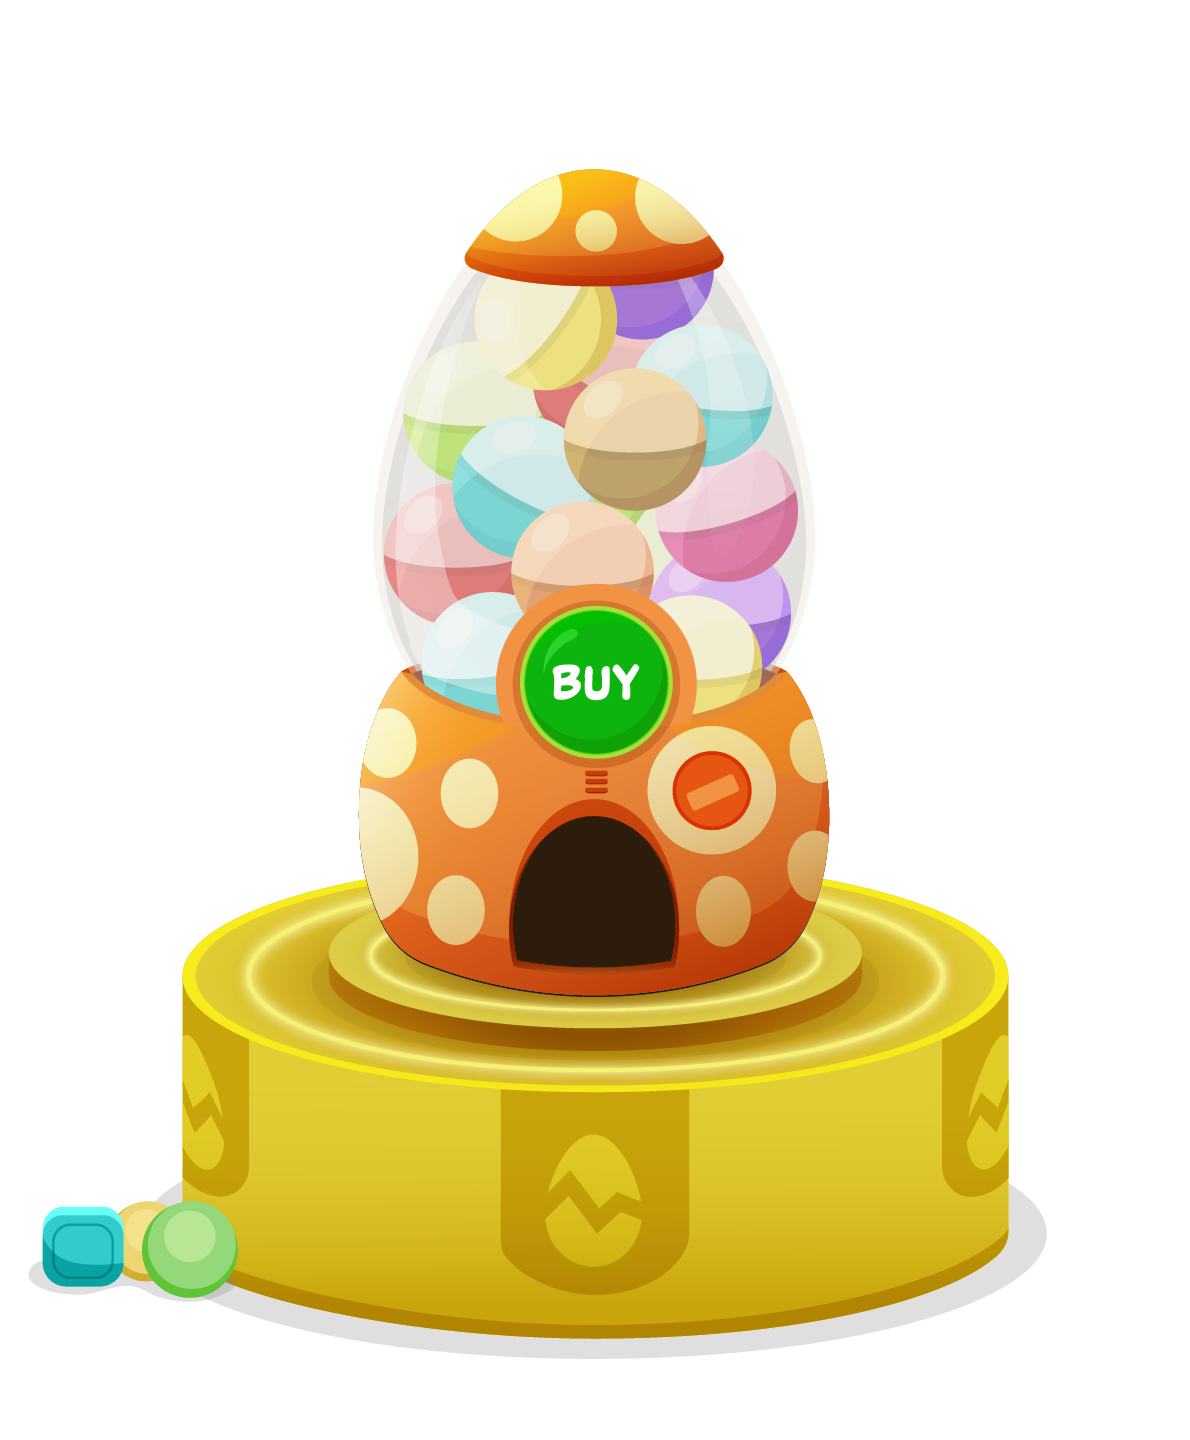
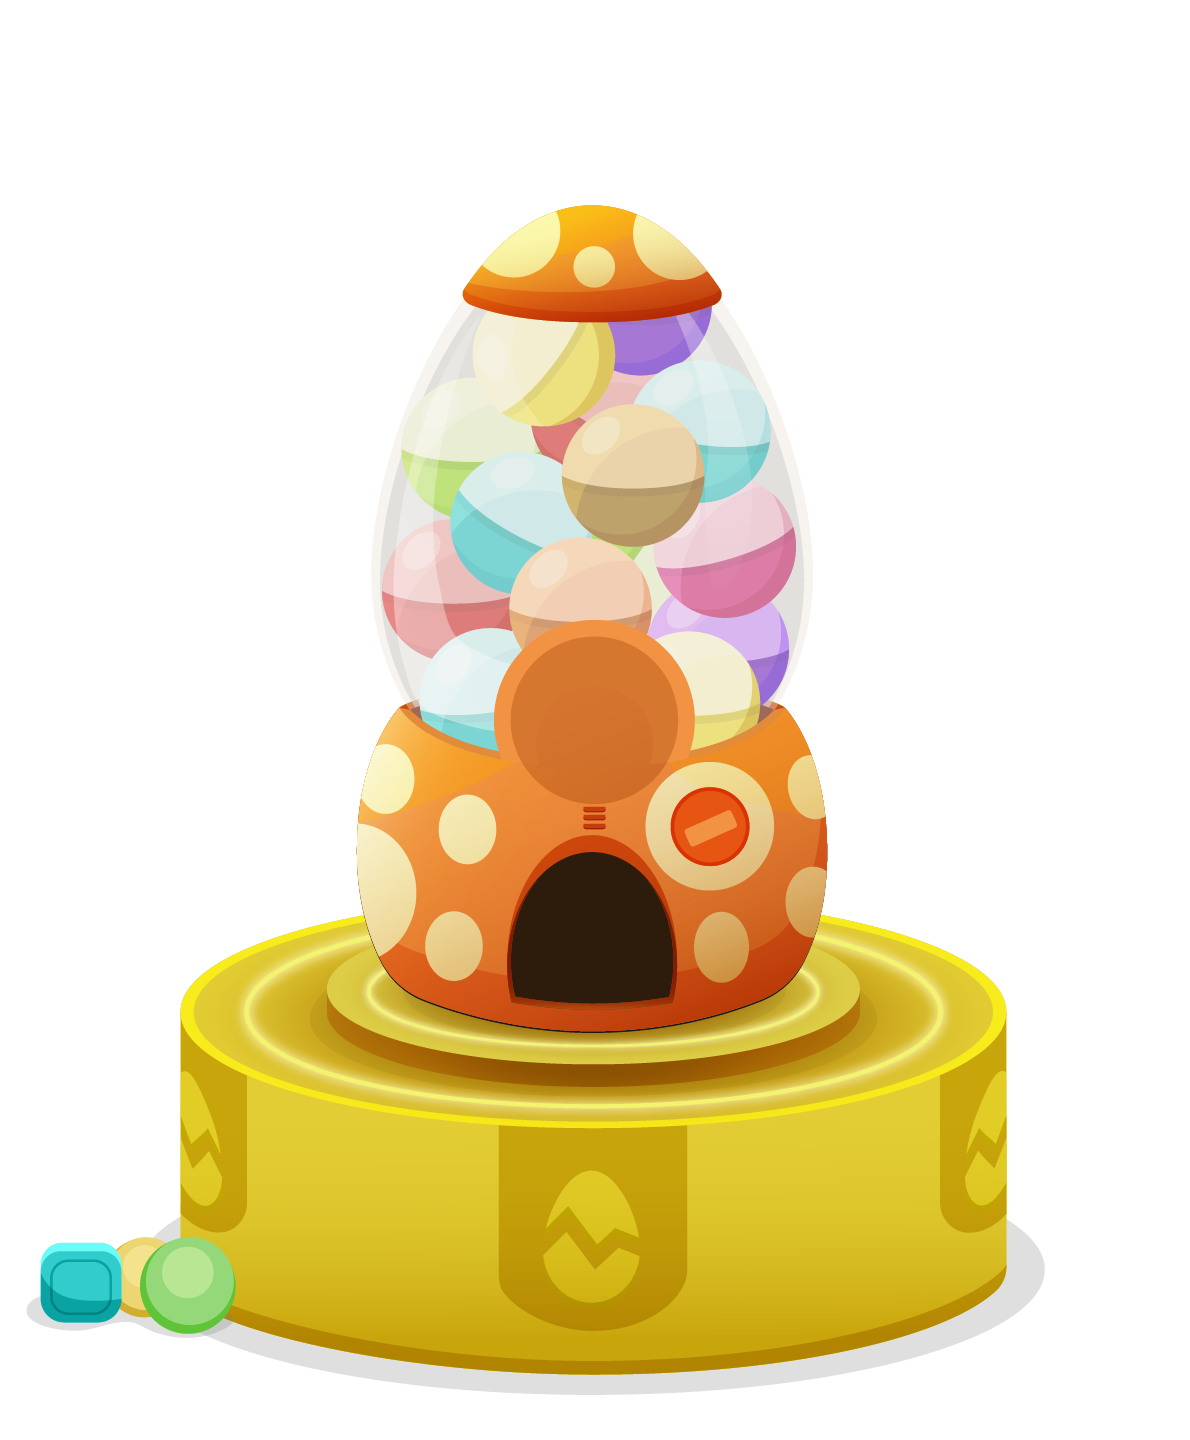
add buy button to gacha

Changed region(s): [[0.0311, 0.0938, 0.9017, 0.9688]]

diff --git a/src/app/pages/gachapon/gachapon.component.html b/src/app/pages/gachapon/gachapon.component.html
@@ -1,5 +1,6 @@
 <div class="gachapon background">
   <div class="machine">
-    <img src="../../../assets/images/backgrounds/gacha_machine.png">
+    <img src="../../../assets/images/backgrounds/gacha_machine.png" />
+    <img class="button" src="../../../assets/images/buttons/gacha_button.png" />
   </div>
 </div>

diff --git a/src/app/pages/gachapon/gachapon.component.scss b/src/app/pages/gachapon/gachapon.component.scss
@@ -9,6 +9,12 @@
       top: 50%;
       left: 50%;
       transform: translate(-50%, -50%);
+
+      &.button{
+        width: 10%;
+        max-width: 80px;
+        cursor: pointer;
+      }
     }
   }
 }
